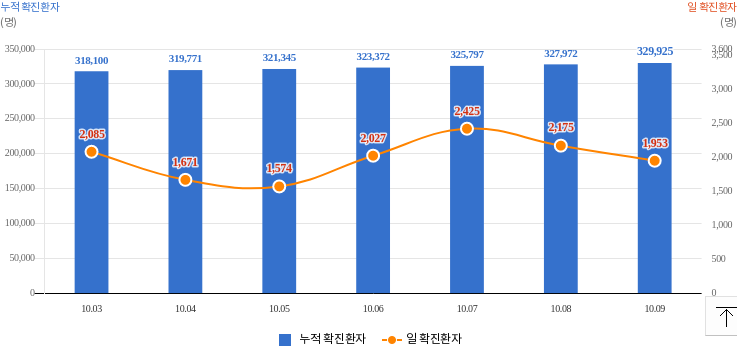
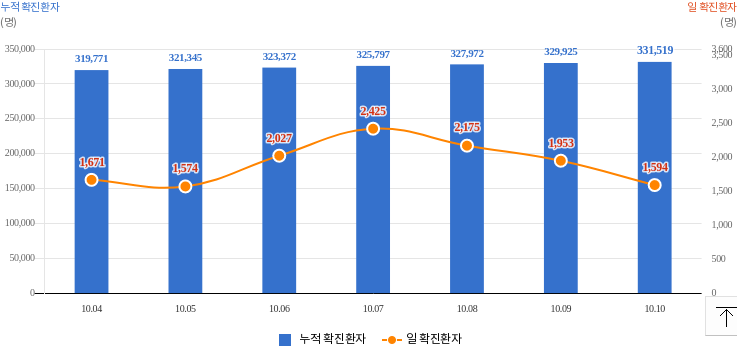
Run crawler and update current data

diff --git a/data.js b/data.js
@@ -7,7 +7,7 @@ var 검사중 = '1,589';
 var 검사결과 = '462,744';
 var 자가격리자 = '520';
 var 거리두기단계 = '사회적 거리두기  3단계 시행 : 2021.10.4.(월) 0시 ~ 10.17.(일) 24시';
-var 국내발생 = '1,924';
-var 해외발생 = '29';
-var 합계 = '1953';
+var 국내발생 = '1,560';
+var 해외발생 = '34';
+var 합계 = '1594';
 var data = [];
